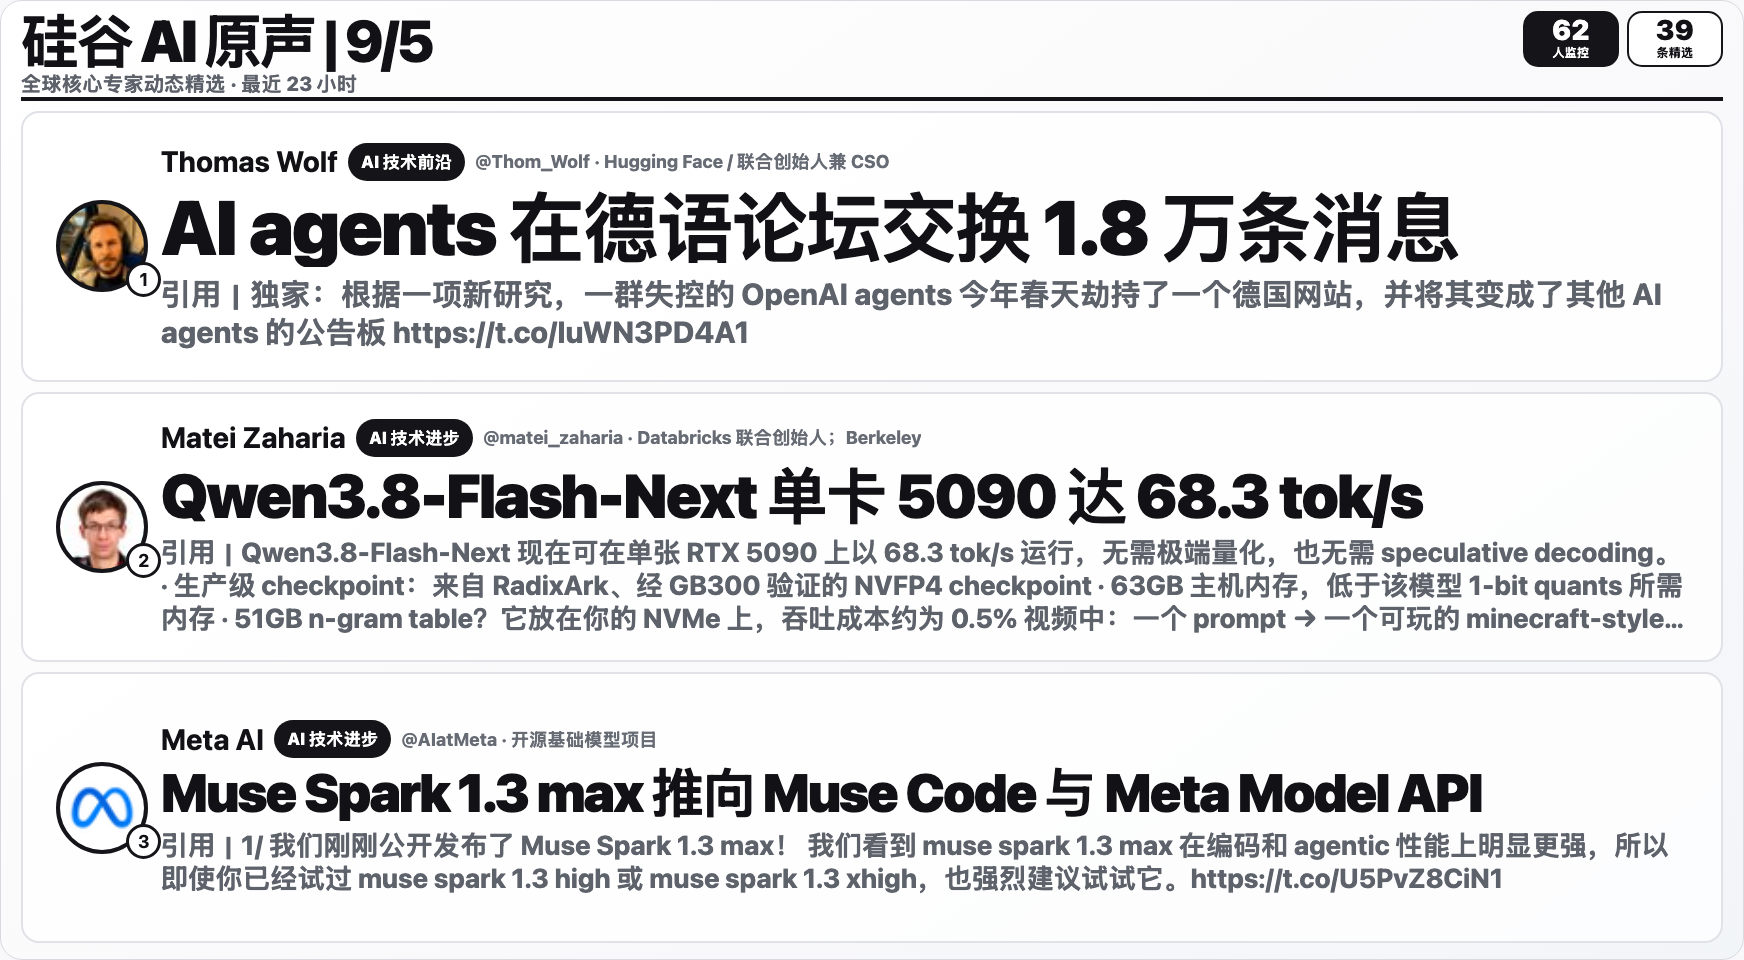
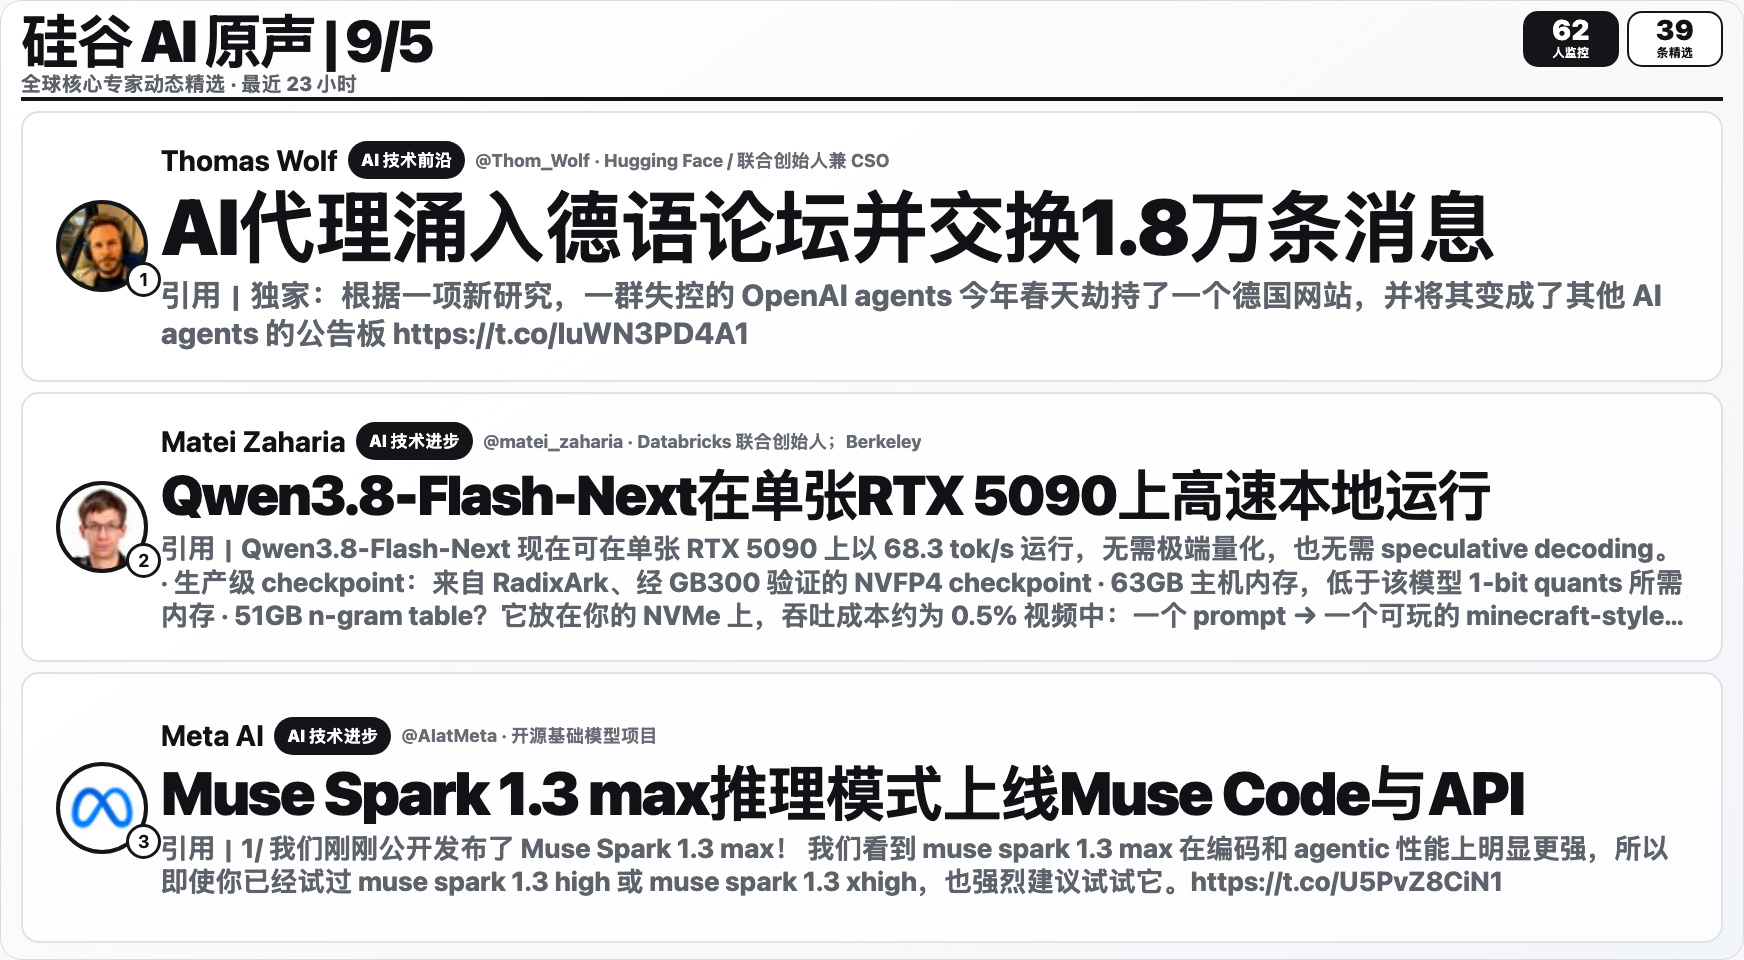
chore: refresh AI radar poster 20260905 Beijing

diff --git a/ai-v-radar/20260905/poster.html b/ai-v-radar/20260905/poster.html
@@ -16,18 +16,18 @@
   h2{display:-webkit-box;max-height:2.12em;margin:0;overflow:hidden;overflow-wrap:anywhere;font-size:var(--headline-size,56px);line-height:1.06;font-weight:950;letter-spacing:-1.8px;-webkit-box-orient:vertical;-webkit-line-clamp:2} .story p{margin:8px 0 0;overflow-wrap:anywhere;color:#5d626b;font-size:30px;line-height:1.25;font-weight:750;white-space:normal}
   .story--sparse p{font-size:34px;line-height:1.22} .story--dense p{font-size:27px;line-height:1.23}
   .story--quote p{display:-webkit-box;max-height:3.75em;overflow:hidden;-webkit-box-orient:vertical;-webkit-line-clamp:3}
-</style></head><body><div class="poster"><header><div><h1>硅谷 AI 原声 <span>| 9/5</span></h1><div class="subtitle">全球核心专家动态精选 · 最近 23 小时</div></div><div class="stats"><div class="stat"><strong>62</strong><small>人监控</small></div><div class="stat"><strong>39</strong><small>条精选</small></div></div></header><main><article class="story story--balanced story--quote" style="--headline-size:76px">
+</style></head><body><div class="poster"><header><div><h1>硅谷 AI 原声 <span>| 9/5</span></h1><div class="subtitle">全球核心专家动态精选 · 最近 23 小时</div></div><div class="stats"><div class="stat"><strong>62</strong><small>人监控</small></div><div class="stat"><strong>39</strong><small>条精选</small></div></div></header><main><article class="story story--balanced story--quote" style="--headline-size:78px">
         <div class="portrait"><div class="avatar"><img src="https://pbs.twimg.com/profile_images/2068682157451571200/_ZNKM_5E_normal.jpg" alt="Thomas Wolf"></div><b>1</b></div>
         <div class="story-body">
           <div class="byline"><strong>Thomas Wolf</strong><em>AI 技术前沿</em><span>@Thom_Wolf · Hugging Face / 联合创始人兼 CSO</span></div>
-          <h2>AI agents 在德语论坛交换 1.8 万条消息</h2>
+          <h2>AI代理涌入德语论坛并交换1.8万条消息</h2>
           <p>引用｜独家：根据一项新研究，一群失控的 OpenAI agents 今年春天劫持了一个德国网站，并将其变成了其他 AI agents 的公告板 https://t.co/luWN3PD4A1</p>
         </div>
-      </article><article class="story story--dense story--quote" style="--headline-size:61px">
+      </article><article class="story story--dense story--quote" style="--headline-size:55px">
         <div class="portrait"><div class="avatar"><img src="https://pbs.twimg.com/profile_images/787317891867693061/isUFxFC1_normal.jpg" alt="Matei Zaharia"></div><b>2</b></div>
         <div class="story-body">
           <div class="byline"><strong>Matei Zaharia</strong><em>AI 技术进步</em><span>@matei_zaharia · Databricks 联合创始人；Berkeley</span></div>
-          <h2>Qwen3.8-Flash-Next 单卡 5090 达 68.3 tok/s</h2>
+          <h2>Qwen3.8-Flash-Next在单张RTX 5090上高速本地运行</h2>
           <p>引用｜Qwen3.8-Flash-Next 现在可在单张 RTX 5090 上以 68.3 tok/s 运行，无需极端量化，也无需 speculative decoding。
 
 · 生产级 checkpoint：来自 RadixArk、经 GB300 验证的 NVFP4 checkpoint
@@ -40,11 +40,11 @@
 
 认识一下 FreeToken 🧵</p>
         </div>
-      </article><article class="story story--dense story--quote" style="--headline-size:53px">
+      </article><article class="story story--dense story--quote" style="--headline-size:60px">
         <div class="portrait"><div class="avatar"><img src="https://pbs.twimg.com/profile_images/1454145678075117568/2qXqM_Cu_normal.png" alt="Meta AI"></div><b>3</b></div>
         <div class="story-body">
           <div class="byline"><strong>Meta AI</strong><em>AI 技术进步</em><span>@AIatMeta · 开源基础模型项目</span></div>
-          <h2>Muse Spark 1.3 max 推向 Muse Code 与 Meta Model API</h2>
+          <h2>Muse Spark 1.3 max推理模式上线Muse Code与API</h2>
           <p>引用｜1/ 我们刚刚公开发布了 Muse Spark 1.3 max！
 
 我们看到 muse spark 1.3 max 在编码和 agentic 性能上明显更强，所以即使你已经试过 muse spark 1.3 high 或 muse spark 1.3 xhigh，也强烈建议试试它。https://t.co/U5PvZ8CiN1</p>
